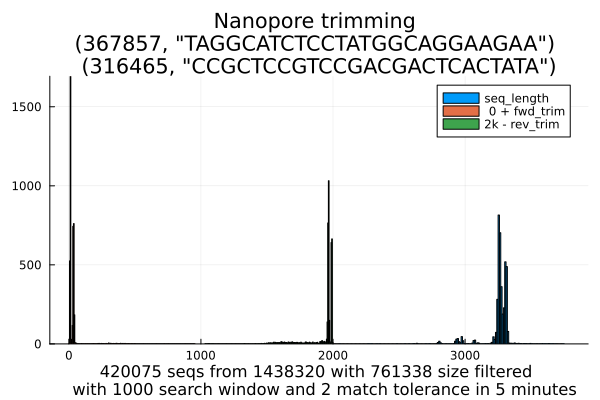
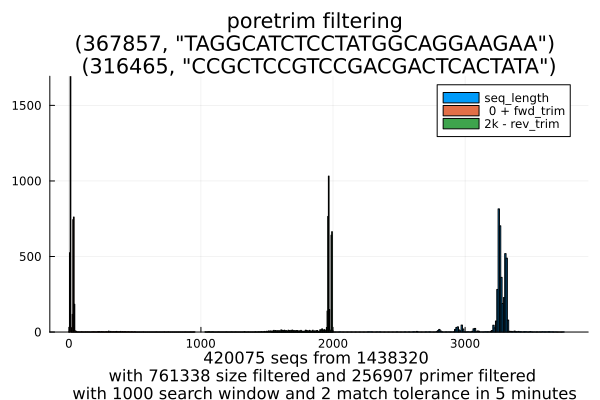
updated poretrim to save discarded sequences

diff --git a/utilities/README.md b/utilities/README.md
@@ -7,8 +7,10 @@ using primers known to reside in the dataset.
 
 usage:
 ```
-julia poretrim.jl infile.fastq.gz outfile.fastq.gz fwd_primer rev_primer
+julia poretrim.jl infile.fastq.gz outfile.fastq.gz fwd_primer rev_primer primer_discards.fastq.gz length_discards.fastq.gz
 ```
+
+The first four parameters are mandatory but the last two are optional.
 
 for example:
 ```
@@ -18,15 +20,15 @@ julia poretrim.jl infile.fastq.gz outfile.fastq.gz TAGGCATCTCCTATGGCAGGAAGAA CCG
 the tool will read sequence records, search for the forward and reverse primers,
 and output a sequence record with the sequence trimmed upto but not including the primers.
 If the primer pair is not found the reverse complement sequence is searched and
-if still not found the sequence is discarded.
+if still not found the sequence is discarded and written to the discard files if provided on the command line.
 
-The tool reports every 10K sequences found and at the end produces a histogram 
+The tool reports every 10K sequences with matching primers and the tool produces a histogram 
 displaying various sequence counts such as the one below.
 
 ![trimcounts](Pool1_Nanopore_trimmed_trimcounts.png)
 
-When you first run the tool, julia will use the Manifest and Porject files to install
-the required libraries locally. Thereafter run times should improve.
+When you first run the tool, julia will use the `Manifest` and `Project` files in this `utilities` 
+directory to install the required libraries locally. Thereafter run times should improve.
 
 This is still a work in progress
 
